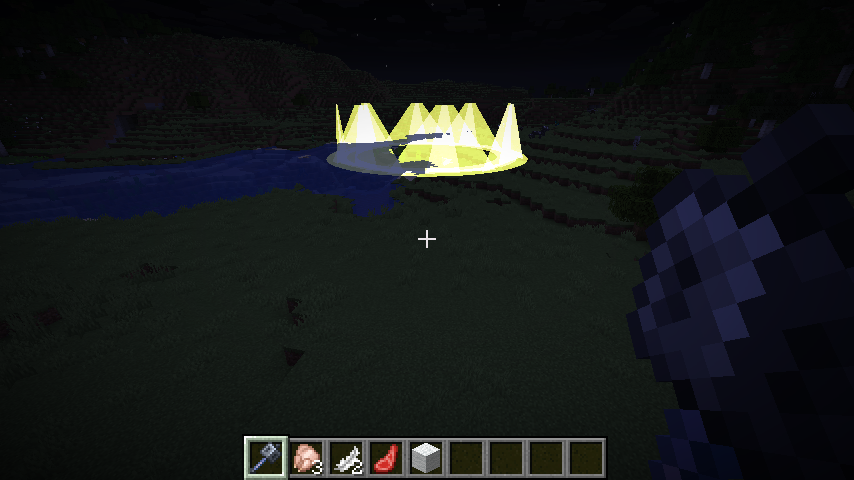
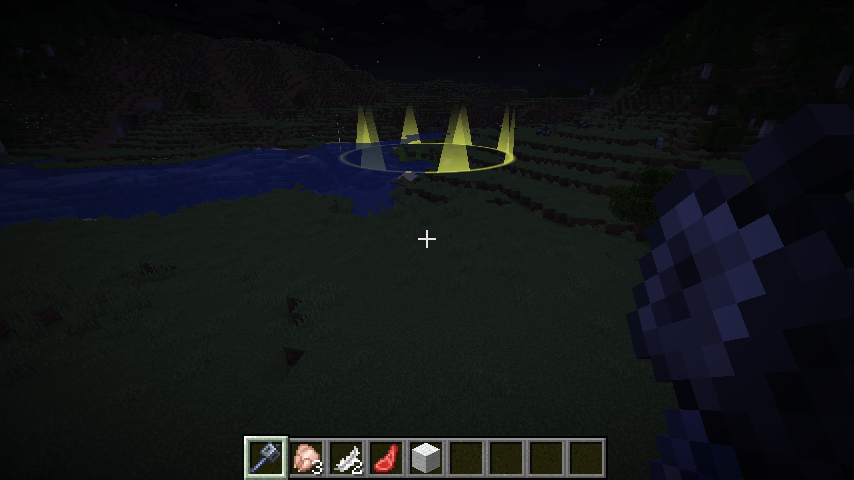
Ausblenden macht die Farbe durchsichtig statt heller
Additives Mischen und der Schein standen dem sauberen Ausblenden im Weg.
Additiv addiert die Farbe auf den Hintergrund, statt ihn zu ueberdecken - die
Deckkraft steuerte damit die Helligkeit statt der Durchsichtigkeit. Eine helle
Farbe bluehte auf dunklem Grund auf, und der Schein legte zusaetzlich eine
mehrfach breitere Kopie darunter. Zusammen ergab das den fetten Ring, der nie
richtig verschwand.

- beides standardmaessig aus, bleibt als Schalter im Reiter Farbe
- Deckkraft laeuft linear auf null statt ueber eine weiche Kurve, damit der
  Effekt am Ende der eingestellten Zeit exakt unsichtbar ist
- Schein schmaler und blasser, falls jemand ihn einschaltet
- Migration auf Config-Version 3 schaltet beides in bestehenden Dateien ab

Gemessen an den Screenshots faellt die Spitzenintensitaet jetzt von 151 auf 50
statt wie vorher in der Saettigung bei 198 zu kleben.

Changed region(s): [[0.3653, 0.2188, 0.6393, 0.375]]

diff --git a/src/main/java/com/popeffects/effect/EffectRenderer.java b/src/main/java/com/popeffects/effect/EffectRenderer.java
@@ -27,10 +27,10 @@ import net.minecraft.util.math.Vec3d;
  */
 public final class EffectRenderer {
 	/** Wie viel breiter der Schein hinter der Form ist. */
-	private static final float GLOW_WIDTH = 3.2F;
+	private static final float GLOW_WIDTH = 2.2F;
 
 	/** Wie blass der Schein gegenueber der Form selbst ist. */
-	private static final float GLOW_ALPHA = 0.3F;
+	private static final float GLOW_ALPHA = 0.22F;
 
 	/** Um so viel duenner wird das Band bis zum Ende des Ausblendens. */
 	private static final float DISSOLVE_THINNING = 0.55F;
@@ -268,6 +268,11 @@ public final class EffectRenderer {
 	 * <p>Gerechnet wird in Ticks statt in Prozent: sonst wuerde ein laenger
 	 * eingestellter Effekt auch laenger ausblenden, obwohl man am Ausblenden
 	 * gar nichts geaendert hat.
+	 *
+	 * <p>Der Verlauf ist bewusst linear: die Farbe soll ueber die eingestellte
+	 * Zeit gleichmaessig durchsichtig werden. Eine weiche Kurve haelt den
+	 * Effekt erst lange fast voll sichtbar und laesst ihn dann schnell
+	 * wegkippen - das sieht aus, als wuerde er abgeschnitten.
 	 */
 	private static float fade(EffectSettings settings, float ageTicks) {
 		float factor = 1.0F;
@@ -282,7 +287,7 @@ public final class EffectRenderer {
 			factor = Math.min(factor, remaining / settings.fadeOutTicks);
 		}
 
-		return smooth(MathHelper.clamp(factor, 0.0F, 1.0F));
+		return MathHelper.clamp(factor, 0.0F, 1.0F);
 	}
 
 	/** Weiches Ein- und Auslaufen - linear wirkt an den Enden abgehackt. */

diff --git a/src/main/java/com/popeffects/config/EffectSettings.java b/src/main/java/com/popeffects/config/EffectSettings.java
@@ -59,15 +59,25 @@ public final class EffectSettings {
 	/** Deckkraft 0-255, bevor das Ein- und Ausblenden daraufkommt. */
 	public int alpha = 200;
 
-	/** Additiv mischen - leuchtet staerker, sieht nach Neon aus. */
-	public boolean additive = true;
+	/**
+	 * Additiv mischen: die Farbe wird auf den Hintergrund addiert statt ihn zu
+	 * ueberdecken.
+	 *
+	 * <p>Standardmaessig aus. Additiv leuchtet zwar kraeftiger, aber die
+	 * Deckkraft steuert dann die Helligkeit statt der Durchsichtigkeit - eine
+	 * helle Farbe blueht auf dunklem Hintergrund auf und wirkt breiter, als
+	 * sie ist. Beim Ausblenden will man dagegen genau das Gegenteil: die Farbe
+	 * soll einfach durchsichtig werden.
+	 */
+	public boolean additive = false;
 
 	/**
 	 * Zeichnet hinter der Form zusaetzlich einen breiten, blassen Schein.
-	 * Kostet einen zweiten Durchgang, sieht dafuer nach Neonroehre aus statt
-	 * nach aufgeklebtem Band.
+	 *
+	 * <p>Standardmaessig aus, weil der Schein die Form sichtbar dicker macht.
+	 * Wer den Neonlook will, schaltet ihn ein.
 	 */
-	public boolean glow = true;
+	public boolean glow = false;
 
 	/** Auch durch Waende sichtbar. */
 	public boolean throughWalls = false;

diff --git a/src/main/java/com/popeffects/config/ConfigManager.java b/src/main/java/com/popeffects/config/ConfigManager.java
@@ -84,6 +84,24 @@ public final class ConfigManager {
 			PopEffects.LOGGER.info("Config auf Version 2 gehoben: Farben stehen jetzt als Hex-Code in der Datei");
 		}
 
+		if (config.configVersion < 3) {
+			// Beides ueberdeckt das Ausblenden: additiv steuert die Deckkraft
+			// die Helligkeit statt der Durchsichtigkeit, und der Schein macht
+			// die Form breiter. Wer den Neonlook mochte, schaltet die beiden
+			// Schalter im Reiter "Farbe" wieder ein.
+			for (TriggerType type : TriggerType.values()) {
+				EffectSettings settings = config.get(type);
+
+				if (settings != null) {
+					settings.additive = false;
+					settings.glow = false;
+				}
+			}
+
+			PopEffects.LOGGER.info("Config auf Version 3 gehoben: Leuchten und Schein sind aus, "
+					+ "damit das Ausblenden die Farbe durchsichtig macht");
+		}
+
 		config.configVersion = PopEffectsConfig.CURRENT_VERSION;
 	}
 

diff --git a/src/main/java/com/popeffects/config/PopEffectsConfig.java b/src/main/java/com/popeffects/config/PopEffectsConfig.java
@@ -8,8 +8,11 @@ public final class PopEffectsConfig {
 	/**
 	 * Version 2: Farben stehen als {@code "#RRGGBB"} in der Datei statt als
 	 * Dezimalzahl.
+	 *
+	 * <p>Version 3: Additives Mischen und der Schein sind aus, damit das
+	 * Ausblenden die Farbe wirklich durchsichtig macht.
 	 */
-	public static final int CURRENT_VERSION = 2;
+	public static final int CURRENT_VERSION = 3;
 
 	public int configVersion = CURRENT_VERSION;
 

diff --git a/README.md b/README.md
@@ -42,7 +42,7 @@ Größe, seinen eigenen Sound. Alles im Spiel einstellbar, mit Vorschau.
 1. [Fabric Loader](https://fabricmc.net/use/installer/) für **1.21.11** installieren.
 2. [Fabric API](https://modrinth.com/mod/fabric-api) für 1.21.11 in den
    `mods`-Ordner legen. **Ohne sie startet die Mod nicht.**
-3. `popeffects-1.2.0.jar` daneben legen.
+3. `popeffects-1.3.0.jar` daneben legen.
 4. Optional: [Mod Menu](https://modrinth.com/mod/modmenu) — dann gibt es im
    Mod-Menü einen Zahnrad-Knopf zu PopEffects.
 
@@ -57,7 +57,7 @@ der Mod — die hier also, keine Forge-Version.
 1. Lunar-Client-Launcher öffnen.
 2. Links die Version **1.21.11** auswählen.
 3. Unten rechts auf *Einstellungen*, oben den Reiter **Mods** wählen.
-4. `popeffects-1.2.0.jar` **und** `fabric-api-....jar` in das Fenster ziehen.
+4. `popeffects-1.3.0.jar` **und** `fabric-api-....jar` in das Fenster ziehen.
    Über den 📁-Knopf kommst du direkt in den Ordner, falls du lieber kopierst.
 5. Lunar Client neu starten.
 
@@ -116,8 +116,8 @@ Schadens-Effekte ausschließlich bei Gegnern, die *du* getroffen hast.
 | `crown` | Ein Kranz aus stehenden Zacken, der nach außen läuft |
 
 Ringe werden mit weichen Kanten gezeichnet: innen und außen läuft die Farbe
-auf null aus. Dazu kommt auf Wunsch ein breiter, blasser **Schein** hinter der
-Form — das ist der Unterschied zwischen aufgeklebtem Band und Neonröhre.
+auf null aus. Auf Wunsch legt sich zusätzlich ein breiter, blasser **Schein**
+dahinter — das ergibt den Neonlook, macht die Form aber dicker.
 
 | `ring` | `burst` | `crown` |
 | --- | --- | --- |
@@ -151,9 +151,16 @@ Das Menü hat pro Effekt vier Reiter, jeder mit einem klaren Thema.
 | Farbverlauf | Blendet über die Lebensdauer von der Start- zur Endfarbe |
 | Regenbogen | Ignoriert beide Farben und dreht den Farbkreis durch |
 | Deckkraft | 10 bis 255 |
-| Leuchten | Additives Mischen — kräftiger, sieht nach Neon aus |
-| Schein | Breiter, blasser Halo hinter der Form — weicher Rand statt harter Kante |
+| Leuchten | Additives Mischen — kräftiger, aber die Deckkraft steuert dann Helligkeit statt Durchsichtigkeit. **Standardmäßig aus** |
+| Schein | Breiter, blasser Halo hinter der Form. Macht die Form sichtbar dicker, deshalb **standardmäßig aus** |
 | Durch Wände | Der Effekt bleibt auch hinter Blöcken sichtbar |
+
+**Leuchten** und **Schein** sind bewusst aus: beide arbeiten gegen ein sauberes
+Ausblenden. Additiv addiert Licht auf den Hintergrund, statt ihn zu überdecken —
+eine helle Farbe blüht dann auf und wirkt breiter, als sie ist. Der Schein legt
+zusätzlich eine mehrfach breitere Kopie darunter. Ohne beides bleibt der Ring
+eine dünne Linie, die über die eingestellte Zeit einfach durchsichtig wird. Wer
+den Neonlook will, schaltet sie einzeln dazu.
 
 ### Reiter „Ablauf"
 
@@ -180,8 +187,9 @@ statt auf den letzten Prozent stehenzubleiben und dann einfach weg zu sein.
 | ![Effekt kurz nach dem Auslösen](docs/fade-fruh.png) | ![Derselbe Effekt beim Ausblenden](docs/fade-spaet.png) |
 
 Derselbe Ring, einmal sechs und einmal zwanzig Ticks nach dem Auslösen: deutlich
-weiter außen, dünner, zur Endfarbe gewandert — und immer noch in Bewegung, als
-er verschwindet.
+weiter außen, dünner, zur Endfarbe gewandert — und durchsichtig genug, dass man
+den Boden hindurch sieht. Die Deckkraft läuft dabei gleichmäßig auf null, der
+Effekt ist also am Ende der eingestellten Zeit exakt unsichtbar.
 
 ### Reiter „Ton"
 

diff --git a/CHANGELOG.md b/CHANGELOG.md
@@ -4,6 +4,26 @@ Alle nennenswerten Änderungen an PopEffects. Das Format orientiert sich an
 [Keep a Changelog](https://keepachangelog.com/de/1.1.0/), die Versionen folgen
 [Semantic Versioning](https://semver.org/lang/de/).
 
+## [1.3.0] - 2026-08-10
+
+### Geändert
+
+- **Das Ausblenden macht die Farbe jetzt wirklich durchsichtig.** Vorher waren
+  additives Mischen und der Schein an: additiv addiert die Farbe auf den
+  Hintergrund, statt ihn zu überdecken — die Deckkraft steuerte damit die
+  Helligkeit und nicht die Durchsichtigkeit. Eine helle Farbe blühte auf
+  dunklem Hintergrund auf und der Ring wirkte dick. Beides ist jetzt aus,
+  bleibt aber als Schalter im Reiter „Farbe".
+- **Der Ring ist wieder eine dünne Linie.** Der Schein zeichnete eine mehrfach
+  breitere Kopie darunter — das war der fette Rand.
+- Die Deckkraft läuft **linear** auf null statt über eine weiche Kurve. Eine
+  weiche Kurve hält den Effekt erst lange fast voll sichtbar und lässt ihn dann
+  schnell wegkippen; linear wird er gleichmäßig durchsichtig und ist am Ende
+  der eingestellten Zeit exakt weg.
+- Der Schein ist schmaler und blasser, falls man ihn einschaltet.
+- Bestehende Configs werden auf Version 3 gehoben: Leuchten und Schein gehen
+  dabei aus.
+
 ## [1.2.0] - 2026-08-10
 
 ### Geändert
@@ -78,6 +98,7 @@ Erste Veröffentlichung.
 - Tastenbelegung: `P` öffnet das Menü, zwei weitere Tasten sind frei belegbar.
 - Deutsche und englische Sprachdatei, Mod-Menu-Integration.
 
+[1.3.0]: https://github.com/Sercigamer/popeffects/releases/tag/v1.3.0
 [1.2.0]: https://github.com/Sercigamer/popeffects/releases/tag/v1.2.0
 [1.1.0]: https://github.com/Sercigamer/popeffects/releases/tag/v1.1.0
 [1.0.0]: https://github.com/Sercigamer/popeffects/releases/tag/v1.0.0
